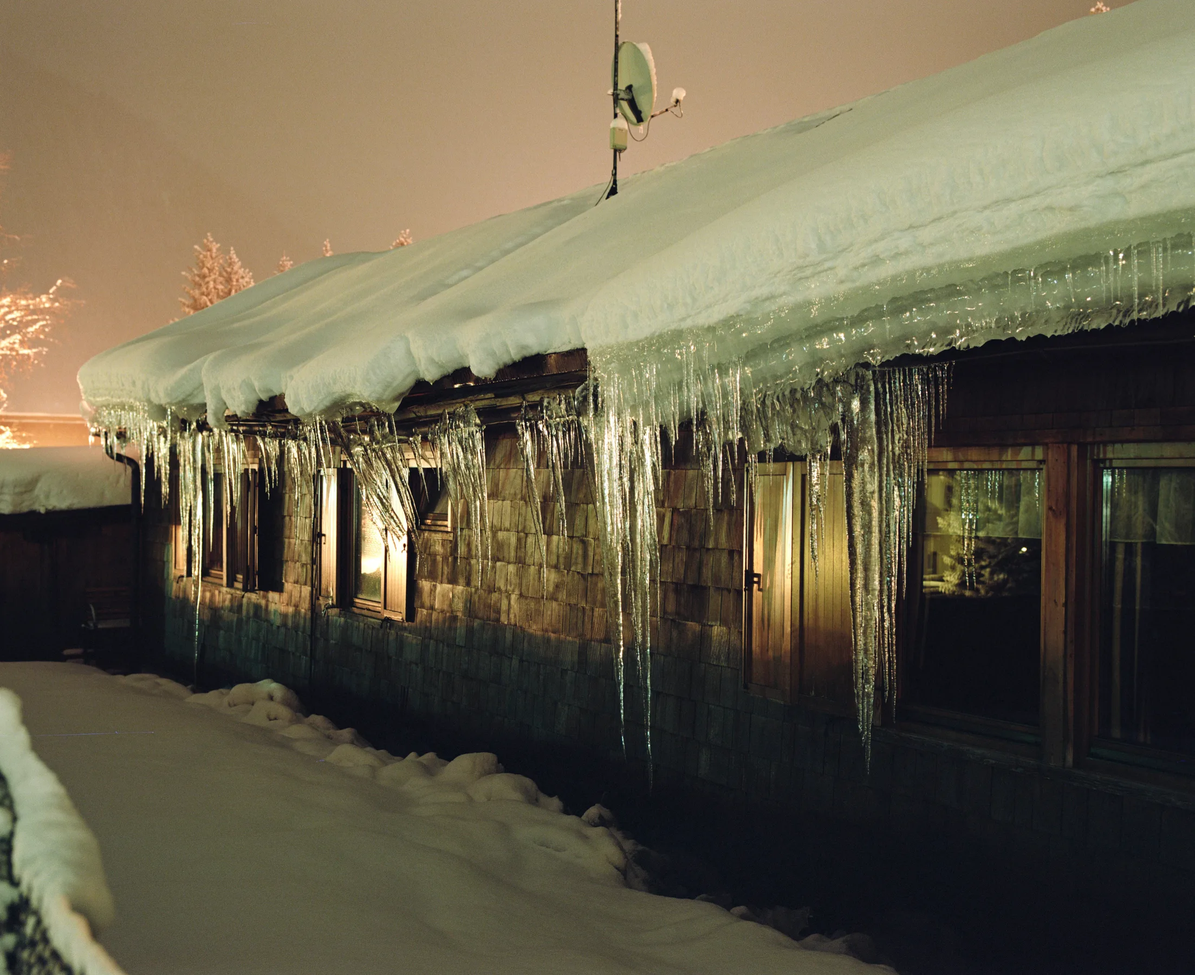
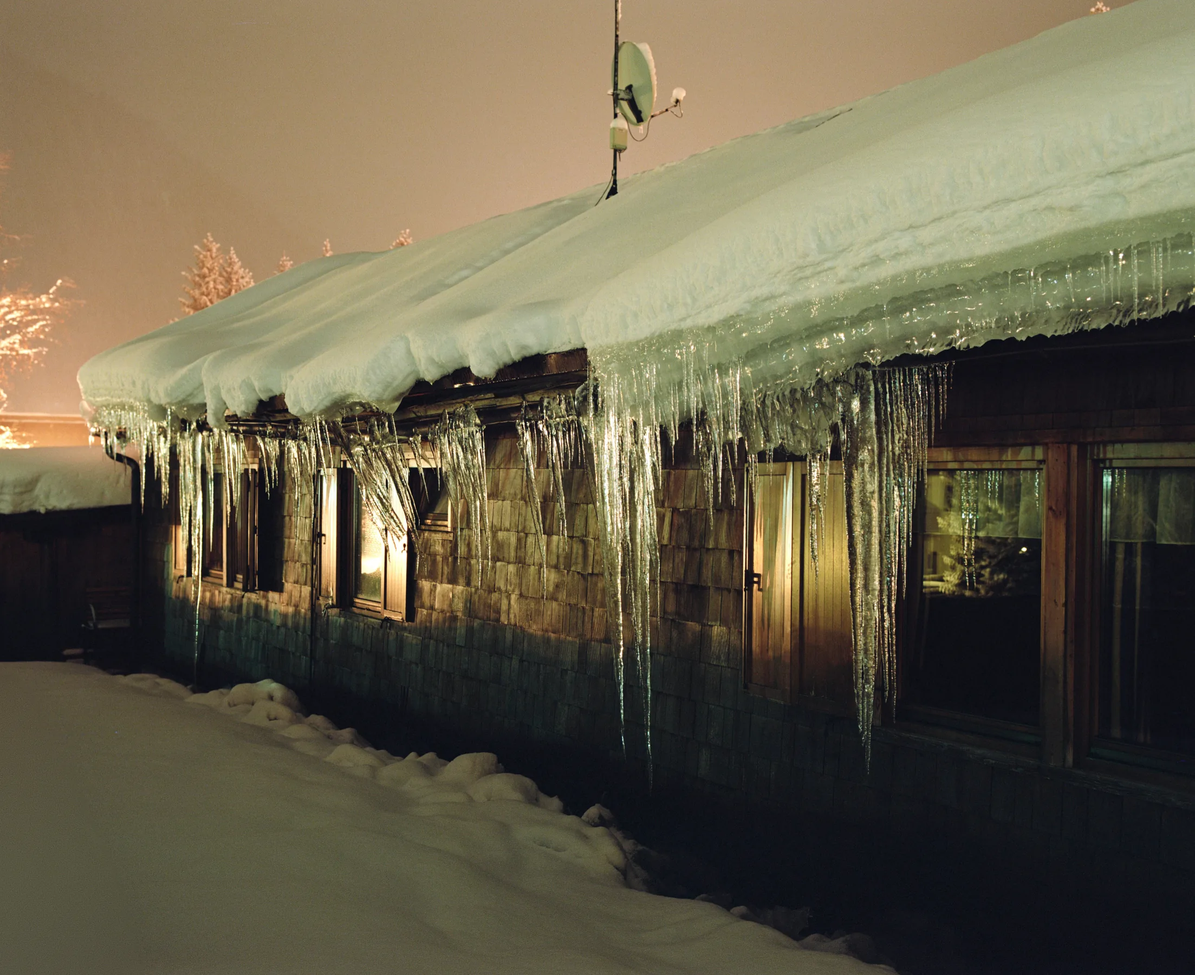
Round 36

Changed region(s): [[0.0, 0.6844, 0.1233, 1.0]]

diff --git a/data.js b/data.js
@@ -351,25 +351,25 @@ const OTHER_WORK = {
     // no film here: the opening screen is a slideshow of the work, in a random order that avoids showing two
     // pictures from the same project back to back. "project" is the name shown as Featured project
     slides: [
-      { image: "images/fine-art/l/thai-0616.webp", project: "Europa | Exhibition" },
-      { image: "images/fine-art/l/thai-0602.webp", project: "Europa | Exhibition" },
-      { image: "images/fine-art/l/thai-0608.webp", project: "Europa | Exhibition" },
-      { image: "images/fine-art/l/thai-0611.webp", project: "Europa | Exhibition" },
-      { image: "images/fine-art/l/thai-0655.webp", project: "Europa | Exhibition" },
+      { image: "images/fine-art/l/thai-0616.webp", project: "Europa — Exhibition" },
+      { image: "images/fine-art/l/thai-0602.webp", project: "Europa — Exhibition" },
+      { image: "images/fine-art/l/thai-0608.webp", project: "Europa — Exhibition" },
+      { image: "images/fine-art/l/thai-0611.webp", project: "Europa — Exhibition" },
+      { image: "images/fine-art/l/thai-0655.webp", project: "Europa — Exhibition" },
       { image: "images/fine-art/l/europa-tray-frame.webp", project: "Europa" },
       { image: "images/fine-art/l/europa-neg-11.webp", project: "Europa" },
       { image: "images/fine-art/l/europa-thud-4.webp", project: "Europa" },
       { image: "images/fine-art/l/europa-albedo.webp", project: "Europa" },
       { image: "images/fine-art/l/europa-thud-2.webp", project: "Europa" },
       { image: "images/fine-art/l/europa-thud-1.webp", project: "Europa" },
-      { image: "images/fine-art/l/kcx-2095.webp", project: "Kerrejja Causi | Exhibition" },
-      { image: "images/fine-art/l/kcx-2192.webp", project: "Kerrejja Causi | Exhibition" },
-      { image: "images/fine-art/l/kcx-2332.webp", project: "Kerrejja Causi | Exhibition" },
-      { image: "images/fine-art/l/kcx-2268.webp", project: "Kerrejja Causi | Exhibition" },
-      { image: "images/fine-art/l/kcx-stack-4.webp", project: "Kerrejja Causi | Exhibition" },
-      { image: "images/fine-art/l/kcx-stack-1.webp", project: "Kerrejja Causi | Exhibition" },
-      { image: "images/fine-art/l/kcx-2161.webp", project: "Kerrejja Causi | Exhibition" },
-      { image: "images/fine-art/l/kcx-2340.webp", project: "Kerrejja Causi | Exhibition" },
+      { image: "images/fine-art/l/kcx-2095.webp", project: "Kerrejja Causi — Exhibition" },
+      { image: "images/fine-art/l/kcx-2192.webp", project: "Kerrejja Causi — Exhibition" },
+      { image: "images/fine-art/l/kcx-2332.webp", project: "Kerrejja Causi — Exhibition" },
+      { image: "images/fine-art/l/kcx-2268.webp", project: "Kerrejja Causi — Exhibition" },
+      { image: "images/fine-art/l/kcx-stack-4.webp", project: "Kerrejja Causi — Exhibition" },
+      { image: "images/fine-art/l/kcx-stack-1.webp", project: "Kerrejja Causi — Exhibition" },
+      { image: "images/fine-art/l/kcx-2161.webp", project: "Kerrejja Causi — Exhibition" },
+      { image: "images/fine-art/l/kcx-2340.webp", project: "Kerrejja Causi — Exhibition" },
       { image: "images/fine-art/l/kc-529.webp", project: "Kerrejja Causi" },
       { image: "images/fine-art/l/kc-532.webp", project: "Kerrejja Causi" },
       { image: "images/fine-art/l/kc-170010-c.webp", project: "Kerrejja Causi" },
@@ -413,13 +413,13 @@ const OTHER_WORK = {
       {
         client: "Exhibition", title: "Europa", sub: true, marker: "Europa · Exhibition",
         blocks: [
+          { type: "titletext", k: "Exhibition installation", title: "THUD — London", text: ["BA (Hons) Photography · The Truman Brewery, Brick Lane · 2017"] },
           { type: "photo", image: "images/fine-art/l/thud-1062.webp", ratio: 0.667 },
-          { type: "titletext", k: "Exhibition installation", title: "THUD | London", text: ["BA (Hons) Photography · The Truman Brewery, Brick Lane · 2017"] },
           { type: "text", text: [
             "Following the work’s debut in the Arts University Bournemouth graduate exhibition in 2017, selected pieces featured in several smaller exhibitions across the city, including ‘The Raw Project’ (2017) and ‘Contained Exhibition’ (2018), before ending up in the collective exhibition ‘THUD’ (2017), held at The Truman Brewery on Brick Lane, London.",
             "After a successful two years of shows across the UK, I was offered the opportunity to exhibit the entire series in my debut solo exhibition at the Iniala Gallery in Phuket, Thailand, where the show ran for a month."
           ] },
-          { type: "gallery", join: true, label: "THUD | London", preview: ["thud-6021", "thud-1080", "thud-1106"], dir: "images/fine-art", photos: [
+          { type: "gallery", join: true, label: "THUD — London", preview: ["thud-6021", "thud-1080", "thud-1106"], dir: "images/fine-art", photos: [
               { file: "thud-6021", ratio: 2.995 },
               { file: "thud-1080", ratio: 1.500 },
               { file: "thud-1106", ratio: 1.500 },
@@ -427,8 +427,8 @@ const OTHER_WORK = {
               { file: "thud-5962", ratio: 1.333 },
               { file: "thud-5972", ratio: 1.333 }
           ] },
-          { type: "titletext", k: "Solo exhibition", title: "Europa | Thailand", text: ["Iniala Gallery, Phuket"] },
-          { type: "gallery", join: true, label: "Europa | Thailand", preview: ["thai-0292", "thai-0616", "thai-0601"], dir: "images/fine-art", photos: [
+          { type: "titletext", k: "Solo exhibition", title: "Europa — Thailand", text: ["Iniala Gallery, Phuket"] },
+          { type: "gallery", join: true, label: "Europa — Thailand", preview: ["thai-0292", "thai-0616", "thai-0601"], dir: "images/fine-art", photos: [
               { file: "thai-0292", ratio: 1.502 },
               { file: "thai-0302", ratio: 1.502 },
               { file: "thai-0308", ratio: 0.666 },
@@ -492,14 +492,14 @@ const OTHER_WORK = {
       {
         client: "Exhibition", title: "Kerrejja Causi", sub: true, marker: "Kerrejja Causi · Exhibition",
         blocks: [
-          { type: "photo", image: "images/fine-art/l/kcx-stack-1.webp", ratio: 1.500 },
+          { type: "titletext", k: "Solo exhibition", title: "Kerrejja Causi — Valletta", text: ["9 – 19 May 2019"] },
+          { type: "photo", image: "images/fine-art/l/kcx-2352.webp", ratio: 0.667 },
           { type: "text", text: [
             "In Malta’s quaint capital Valletta, and nestled within the same grand arches as the National Library, Christian Marot’s second international solo exhibition ‘Kerrejja Causi’ took place for 10 days between 9th – 19th May 2019.",
             "The exhibition tells the story of an abandoned 16th century tenement building, or ‘Kerrejja’, that stands in the heart of Valletta. A series of moments captured on medium format film, alongside a collection of found artefacts, helps to build up the sense that it was deserted on a single day, with knives and forks left laid on tables. Kerrejja Causi is full of character, and it represents a past Malta which will be lost in the natural passage of time and modern development."
           ] },
-          { type: "titletext", k: "Solo exhibition", title: "Kerrejja Causi | Valletta", text: ["9 – 19 May 2019"] },
-          { type: "gallery", join: true, label: "Kerrejja Causi | Valletta", preview: ["kcx-2352", "kcx-2340", "kcx-2293"], dir: "images/fine-art", photos: [
-              { file: "kcx-2352", ratio: 0.667 },
+          { type: "gallery", join: true, label: "Kerrejja Causi — Valletta", preview: ["kcx-stack-1", "kcx-2340", "kcx-2293"], dir: "images/fine-art", photos: [
+              { file: "kcx-stack-1", ratio: 1.500 },
               { file: "kcx-2340", ratio: 1.500 },
               { file: "kcx-2167", ratio: 0.667 },
               { file: "kcx-2194", ratio: 1.500 },
@@ -525,34 +525,24 @@ const OTHER_WORK = {
         client: "Project", title: "Morning, Noon, Night",
         blocks: [
           { type: "tiled", rows: 1, dir: "images/fine-art", photos: [
-              { file: "mnn-0006", ratio: 1.226 },
-              { file: "mnn-0009", ratio: 1.225 },
-              { file: "mnn-0008", ratio: 0.816 },
-              { file: "mnn-350002", ratio: 1.226 },
-              { file: "mnn-350003", ratio: 1.226 },
               { file: "mnn-350004", ratio: 1.226 },
-              { file: "mnn-350005", ratio: 1.226 }
+              { file: "mnn-350005", ratio: 1.226 },
+              { file: "mnn-350002", ratio: 1.226 },
+              { file: "mnn-350003", ratio: 1.226 }
           ] }
         ]
       },
       {
         client: "Project", title: "Predannack",
         blocks: [
+          { type: "photo", image: "images/fine-art/l/pr-130009.webp", ratio: 1.225 },
           { type: "tiled", rows: 2, dir: "images/fine-art", photos: [
               { file: "pr-120003", ratio: 1.226 },
-              { file: "pr-120007", ratio: 1.226 },
               { file: "pr-120008", ratio: 1.225 },
-              { file: "pr-130002", ratio: 1.226 },
               { file: "pr-130003", ratio: 1.225 },
-              { file: "pr-130004", ratio: 1.226 },
               { file: "pr-130006", ratio: 1.225 },
               { file: "pr-130007", ratio: 1.226 },
-              { file: "pr-130009", ratio: 1.225 },
-              { file: "pr-130010", ratio: 1.226 },
-              { file: "pr-150001", ratio: 1.226 },
-              { file: "pr-150002", ratio: 1.226 },
-              { file: "pr-150003", ratio: 1.226 },
-              { file: "pr-150005", ratio: 1.226 }
+              { file: "pr-150001", ratio: 1.226 }
           ] }
         ]
       }

diff --git a/index.html b/index.html
@@ -11,11 +11,11 @@
 <link rel="preconnect" href="https://fonts.googleapis.com">
 <link rel="preconnect" href="https://fonts.gstatic.com" crossorigin>
 <link href="https://fonts.googleapis.com/css2?family=IBM+Plex+Mono:wght@400;500&family=Instrument+Serif:ital@0;1&family=Manrope:wght@300;400;500;600&display=swap" rel="stylesheet">
-<link rel="stylesheet" href="style.css?v=20261013h">
+<link rel="stylesheet" href="style.css?v=20261013i">
 <script type="application/ld+json">
 {"@context":"https://schema.org","@type":"Person","name":"Christian Marot","jobTitle":"Wildlife & Natural History Cinematographer","birthPlace":"London, UK","homeLocation":{"@type":"Place","name":"London, UK"},"email":"mailto:christian.marot@hotmail.com","url":"https://www.christianmarot.com","image":"https://www.christianmarot.com/images/christian-marot-wildlife-cinematographer.jpg","sameAs":["https://www.instagram.com/christianmarot/","https://vimeo.com/christianmarot","https://www.linkedin.com/in/christian-marot-9525902a/","https://www.imdb.com/name/nm6849161/"]}
 </script>
-<script src="data.js?v=20261013h"></script>
+<script src="data.js?v=20261013i"></script>
 </head>
 <body>
 
@@ -203,6 +203,6 @@
   <div class="base"><span>© 2026 Christian Marot · Wildlife &amp; Natural History Cinematographer, London</span><span>Portrait: Freddie Claire</span></div>
 </footer>
 
-<script src="main.js?v=20261013h"></script>
+<script src="main.js?v=20261013i"></script>
 </body>
 </html>

diff --git a/field-map.html b/field-map.html
@@ -312,12 +312,12 @@ a{color:inherit}
 
 <script src="https://cdn.jsdelivr.net/npm/d3@7.8.5/dist/d3.min.js"></script>
 <script src="https://cdn.jsdelivr.net/npm/topojson-client@3.1.0/dist/topojson-client.min.js"></script>
-<script src="data.js?v=20261013h"></script>
-<script src="fieldmap/geo.js?v=20261013h"></script>
-<script src="fieldmap/geo50.js?v=20261013h"></script>
-<script src="fieldmap/earth.js?v=20261013h"></script>
-<script src="fieldmap/sky.js?v=20261013h"></script>
-<script src="fieldmap/map.js?v=20261013h"></script>
+<script src="data.js?v=20261013i"></script>
+<script src="fieldmap/geo.js?v=20261013i"></script>
+<script src="fieldmap/geo50.js?v=20261013i"></script>
+<script src="fieldmap/earth.js?v=20261013i"></script>
+<script src="fieldmap/sky.js?v=20261013i"></script>
+<script src="fieldmap/map.js?v=20261013i"></script>
 
 </body>
 </html>

diff --git a/work.html b/work.html
@@ -9,8 +9,8 @@
 <link rel="preconnect" href="https://fonts.googleapis.com">
 <link rel="preconnect" href="https://fonts.gstatic.com" crossorigin>
 <link href="https://fonts.googleapis.com/css2?family=IBM+Plex+Mono:wght@400;500&family=Instrument+Serif:ital@0;1&family=Manrope:wght@300;400;500;600&display=swap" rel="stylesheet">
-<link rel="stylesheet" href="style.css?v=20261013h">
-<script src="data.js?v=20261013h"></script>
+<link rel="stylesheet" href="style.css?v=20261013i">
+<script src="data.js?v=20261013i"></script>
 </head>
 <body>
 
@@ -77,6 +77,6 @@
 </footer>
 
 <script src="https://player.vimeo.com/api/player.js"></script>
-<script src="main.js?v=20261013h"></script>
+<script src="main.js?v=20261013i"></script>
 </body>
 </html>

diff --git a/main.js b/main.js
@@ -454,7 +454,7 @@
   /* ---------- Field Map: load the turning globe only as its section comes near ---------- */
   const fmBox = $('#fmGlobe');
   if (fmBox) {
-    const FMV = '20261013h';
+    const FMV = '20261013i';
     const load = src => new Promise((ok, no) => { const s = document.createElement('script'); s.src = src; s.onload = ok; s.onerror = no; document.head.appendChild(s); });
     const lo = new IntersectionObserver(async es => {
       if (!es[0].isIntersecting) return; lo.disconnect();

diff --git a/style.css b/style.css
@@ -492,3 +492,4 @@ body.lb-open{overflow:hidden}
 .wk-row.mid .blk.txt{justify-content:safe center}
 .wk-row.mid .blk.txt.pair{justify-content:flex-start}
 .wk-row.mid .blk.txt.tt{padding-right:0}
+.wk-title .n{padding-bottom:.18em;margin-bottom:-.18em}   /* room for the tails of J and Q below the line */
